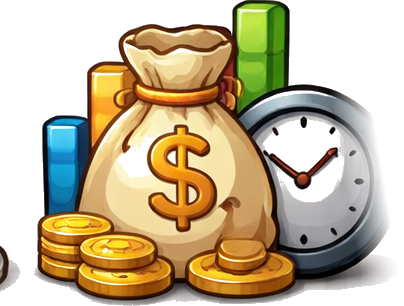
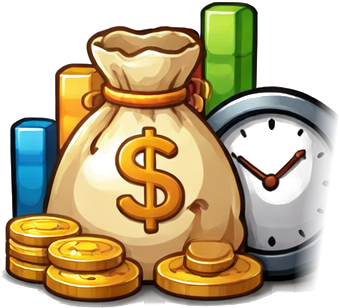
v141 — recorte diagonal iconos, galería scroll-snap, aro estudio+home
- Re-crop econ/events/home con máscara diagonal precisa (sin restos de sombras)
- Galería logos: reemplazar swipe JS laggy por scroll-snap nativo del navegador
- Aro selección teal para Estudio Cambio (header + nav-bar overlays)
- Fix flash azul en Home al transicionar (quitar class active estática)
- Quitar botón Config Fiscal de Estudio Cambio

diff --git a/js/init.js b/js/init.js
@@ -18,53 +18,47 @@
   /* ── Sincronizar cumpleaños VIP con calendario de eventos ── */
   if(typeof syncVipBdaysToEvents==='function') syncVipBdaysToEvents();
 
-  /* ── Logo gallery popup ── */
+  /* ── Logo gallery popup (horizontal scroll-snap) ── */
   var _logoBtn=document.getElementById('appLogoBtn');
   var _logoPopup=document.getElementById('logoPopup');
   var _logoCloseBtn=document.getElementById('logoPopupClose');
-  var _logoTrack=document.getElementById('logoTrack');
+  var _logoGallery=document.getElementById('logoGallery');
   var _logoDots=document.getElementById('logoGalleryDots');
+  var _logoCount=_logoGallery?_logoGallery.querySelectorAll('.logo-gallery-slide').length:0;
   var _logoIdx=0;
-  var _logoCount=_logoTrack?_logoTrack.children.length:0;
   function _logoUpdateDots(){
     if(!_logoDots)return;
     var h='';
     for(var i=0;i<_logoCount;i++)h+='<span class="logo-gallery-dot'+(i===_logoIdx?' active':'')+'"></span>';
     _logoDots.innerHTML=h;
   }
-  function _logoGoTo(idx){
-    _logoIdx=Math.max(0,Math.min(idx,_logoCount-1));
-    if(_logoTrack)_logoTrack.style.transform='translateX('+(-_logoIdx*100/_logoCount)+'%)';
-    _logoUpdateDots();
-  }
   if(_logoBtn&&_logoPopup){
-    _logoBtn.addEventListener('click',function(){_logoIdx=0;_logoGoTo(0);_logoPopup.classList.add('open');});
+    _logoBtn.addEventListener('click',function(){
+      _logoIdx=0;
+      if(_logoGallery)_logoGallery.scrollLeft=0;
+      _logoUpdateDots();
+      _logoPopup.classList.add('open');
+    });
     _logoPopup.addEventListener('click',function(e){if(e.target===_logoPopup)_logoPopup.classList.remove('open');});
     if(_logoCloseBtn)_logoCloseBtn.addEventListener('click',function(){_logoPopup.classList.remove('open');});
-    /* Swipe touch */
-    var _sx=0,_dx=0,_swiping=false;
-    if(_logoTrack){
-      _logoTrack.addEventListener('touchstart',function(e){_sx=e.touches[0].clientX;_dx=0;_swiping=true;_logoTrack.style.transition='none';});
-      _logoTrack.addEventListener('touchmove',function(e){
-        if(!_swiping)return;
-        _dx=e.touches[0].clientX-_sx;
-        _logoTrack.style.transform='translateX(calc(-'+(_logoIdx*100)+'% + '+_dx+'px))';
+    /* Sync dots on scroll */
+    if(_logoGallery){
+      _logoGallery.addEventListener('scroll',function(){
+        var w=_logoGallery.offsetWidth;
+        if(w>0){_logoIdx=Math.round(_logoGallery.scrollLeft/w);}
+        _logoUpdateDots();
       });
-      _logoTrack.addEventListener('touchend',function(){
-        _swiping=false;_logoTrack.style.transition='transform .3s ease';
-        if(Math.abs(_dx)>50){
-          if(_dx<0&&_logoIdx<_logoCount-1)_logoGoTo(_logoIdx+1);
-          else if(_dx>0&&_logoIdx>0)_logoGoTo(_logoIdx-1);
-          else _logoGoTo(_logoIdx);
-        } else _logoGoTo(_logoIdx);
-        _dx=0;
-      });
-      /* Dot clicks */
+      /* Dot clicks → scroll to slide */
       _logoDots.addEventListener('click',function(e){
         var dot=e.target.closest('.logo-gallery-dot');
         if(!dot)return;
         var dots=_logoDots.querySelectorAll('.logo-gallery-dot');
-        for(var i=0;i<dots.length;i++){if(dots[i]===dot){_logoGoTo(i);break;}}
+        for(var i=0;i<dots.length;i++){if(dots[i]===dot){
+          _logoIdx=i;
+          _logoGallery.scrollTo({left:i*_logoGallery.offsetWidth,behavior:'smooth'});
+          _logoUpdateDots();
+          break;
+        }}
       });
     }
   }

diff --git a/css/styles.css b/css/styles.css
@@ -1316,9 +1316,9 @@ body{font-family:var(--font);background:var(--bg);color:var(--text);min-height:1
 .logo-popup-name{font-size:2rem;font-weight:700;letter-spacing:-.02em;color:var(--text)}
 .logo-popup-sub{font-size:1.2rem;color:var(--text-muted);font-weight:400}
 /* Gallery */
-.logo-gallery{width:100%;overflow:hidden;touch-action:pan-y;-webkit-user-select:none;user-select:none}
-.logo-gallery-track{display:flex;transition:transform .3s ease;will-change:transform}
-.logo-gallery-slide{flex:0 0 100%;display:flex;flex-direction:column;align-items:center;justify-content:center;min-height:160px;padding:10px}
+.logo-gallery{width:100%;min-width:0;display:flex;flex-shrink:0;overflow-x:auto;overflow-y:hidden;scroll-snap-type:x mandatory;-webkit-overflow-scrolling:touch;-webkit-user-select:none;user-select:none;scrollbar-width:none}
+.logo-gallery::-webkit-scrollbar{display:none}
+.logo-gallery-slide{flex:0 0 100%;display:flex;flex-direction:column;align-items:center;justify-content:center;min-height:160px;padding:10px;scroll-snap-align:start}
 .logo-gallery-slide img{max-width:70%;max-height:180px;object-fit:contain;border-radius:16px}
 .logo-gallery-label{font-size:.85rem;color:var(--text-dim);margin-top:10px}
 .logo-gallery-dots{display:flex;gap:6px;justify-content:center;margin-top:8px}

diff --git a/index.html b/index.html
@@ -272,7 +272,6 @@ try{
   <div class="logo-popup-box" id="logoPopupBox">
     <button class="logo-popup-close" id="logoPopupClose">&#10005;</button>
     <div class="logo-gallery" id="logoGallery">
-      <div class="logo-gallery-track" id="logoTrack">
         <div class="logo-gallery-slide"><img src="logo.png" alt="Gestify"><div class="logo-gallery-label">Gestify</div></div>
         <div class="logo-gallery-slide"><img src="icon-econ.png" alt="Económico"><div class="logo-gallery-label">Económico</div></div>
         <div class="logo-gallery-slide"><img src="icon-estudio.png" alt="Estudio"><div class="logo-gallery-label">Estudio Cambio</div></div>
@@ -280,7 +279,6 @@ try{
         <div class="logo-gallery-slide"><img src="icon-events.png" alt="Eventos"><div class="logo-gallery-label">Eventos</div></div>
         <div class="logo-gallery-slide"><img src="icon-bday.png" alt="Cumpleaños"><div class="logo-gallery-label">Cumpleaños</div></div>
         <div class="logo-gallery-slide"><img src="VIP.png" alt="VIP"><div class="logo-gallery-label">VIP</div></div>
-      </div>
     </div>
     <div class="logo-gallery-dots" id="logoGalleryDots"></div>
     <div class="logo-popup-name">Gestify</div>

diff --git a/js/core.js b/js/core.js
@@ -3,7 +3,7 @@
    ============================================================ */
 
 // ── Versión de la app (actualizar en cada push significativo) ─
-var APP_VERSION = 'v140 \u2014 fix recorte diagonal iconos, aro selecci\u00f3n estudio+home, quitar config fiscal';
+var APP_VERSION = 'v141 \u2014 recorte diagonal iconos, galer\u00eda scroll-snap, aro estudio+home';
 
 // ── MacroDroid: normalizar URL base (quita trailing slash y nombre de macro) ─
 function normalizeMacroBase(url){

diff --git a/sw.js b/sw.js
@@ -4,7 +4,7 @@
    → Cambiar CACHE_VER en cada deploy para forzar actualización
    ============================================================ */
 
-var CACHE_VER = 'v140';
+var CACHE_VER = 'v141';
 var CACHE_NAME = 'horas-excelia-' + CACHE_VER;
 
 var ASSETS = [
